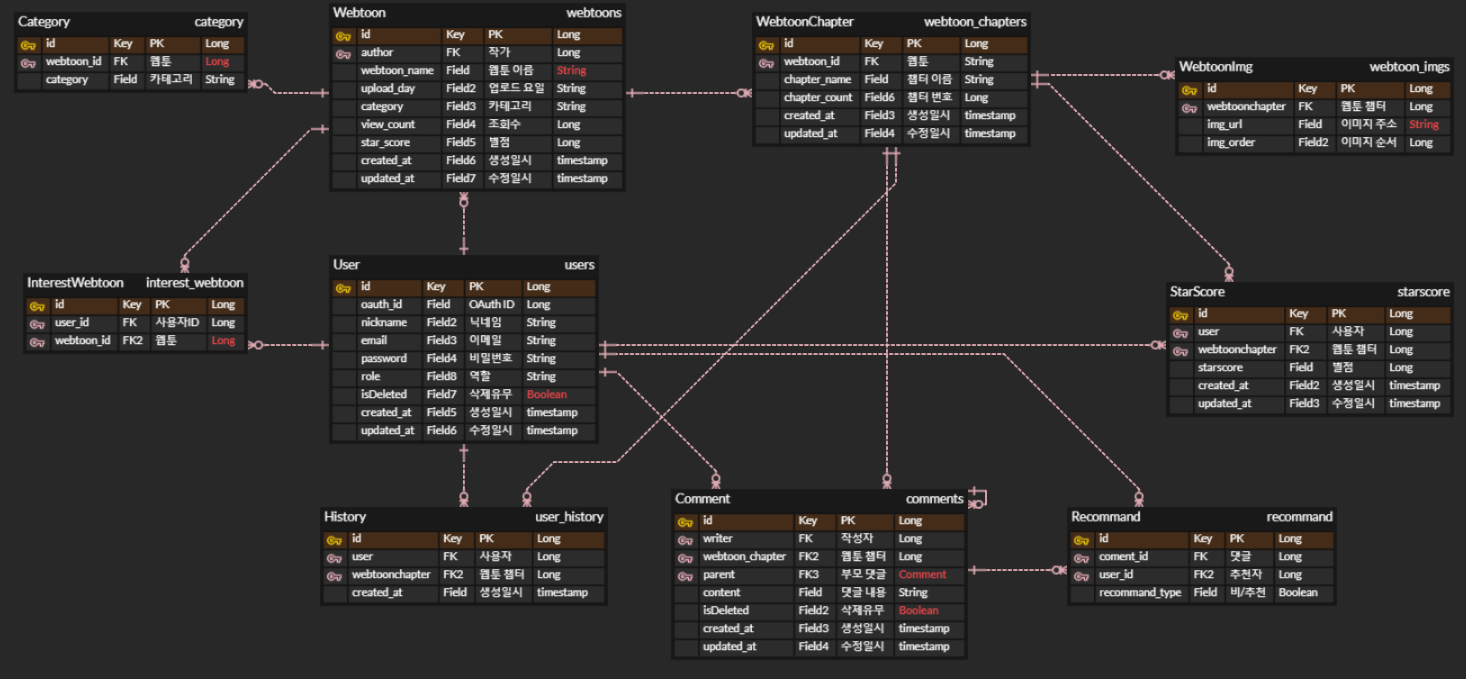
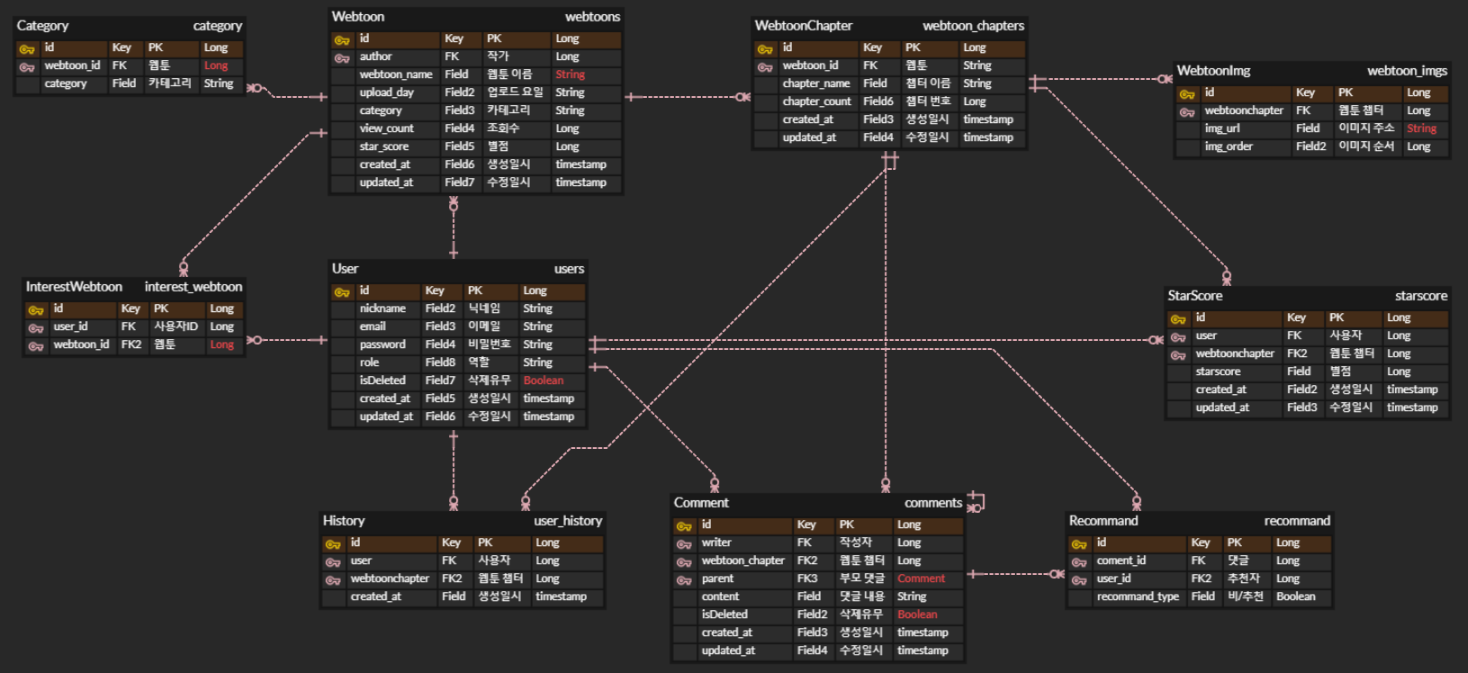
feat : 회원가입, 로그인 구현 docs : README, ERD 수정

diff --git a/src/main/java/com/example/webtoon/User/security/SecurityConfig.java b/src/main/java/com/example/webtoon/User/security/SecurityConfig.java
@@ -1,38 +1,38 @@
 package com.example.webtoon.User.security;
 
-import com.example.webtoon.User.service.PrincipalOauthUserService;
 import lombok.RequiredArgsConstructor;
 import org.springframework.context.annotation.Bean;
 import org.springframework.context.annotation.Configuration;
+import org.springframework.security.authentication.AuthenticationManager;
+import org.springframework.security.config.annotation.method.configuration.EnableGlobalMethodSecurity;
 import org.springframework.security.config.annotation.web.builders.HttpSecurity;
 import org.springframework.security.config.annotation.web.configuration.EnableWebSecurity;
+import org.springframework.security.config.annotation.web.configuration.WebSecurityConfigurerAdapter;
+import org.springframework.security.config.http.SessionCreationPolicy;
 import org.springframework.security.web.SecurityFilterChain;
+import org.springframework.security.web.authentication.UsernamePasswordAuthenticationFilter;
 
 @Configuration
 @RequiredArgsConstructor
+@EnableGlobalMethodSecurity(prePostEnabled = true)
 @EnableWebSecurity
-public class SecurityConfig {
+public class SecurityConfig extends WebSecurityConfigurerAdapter {
+    private final JwtAuthenticationFilter authenticationFilter;
 
-    private final PrincipalOauthUserService principalOauthUserService;
-
-    @Bean
-    public SecurityFilterChain filerChain(HttpSecurity http) throws Exception{
+    @Override
+    public void configure(HttpSecurity http) throws Exception{
         http.csrf().disable()
-            .authorizeRequests()
+            .sessionManagement().sessionCreationPolicy(SessionCreationPolicy.STATELESS)
+            .and()
+            .authorizeHttpRequests()
             .antMatchers("/**/auth/**").permitAll()
             .anyRequest().authenticated()
             .and()
-            .formLogin()
-            .loginPage("/loginForm") //미인증자일경우 해당 uri를 호출
-            .loginProcessingUrl("/login") //login 주소가 호출되면 시큐리티가 낚아 채서(post로 오는것) 대신 로그인 진행 -> 컨트롤러를 안만들어도 된다.
-            .defaultSuccessUrl("/")
-
-            .and()
-            .oauth2Login()
-            .loginPage("/loginForm")
-            .defaultSuccessUrl("/")
-            .userInfoEndpoint()
-            .userService(principalOauthUserService);//구글 로그인이 완료된(구글회원) 뒤의 후처리가 필요함 . Tip.코드x, (엑세스 토큰+사용자 프로필 정보를 받아옴)
-        return http.build();
+            .addFilterBefore(this.authenticationFilter, UsernamePasswordAuthenticationFilter.class);
+    }
+    @Bean
+    @Override
+    public AuthenticationManager authenticationManagerBean() throws Exception{
+        return super.authenticationManagerBean();
     }
 }

diff --git a/src/main/java/com/example/webtoon/User/domain/model/User.java b/src/main/java/com/example/webtoon/User/domain/model/User.java
@@ -5,6 +5,8 @@ import com.example.webtoon.User.type.Authority;
 import java.time.LocalDateTime;
 import javax.persistence.Column;
 import javax.persistence.Entity;
+import javax.persistence.EnumType;
+import javax.persistence.Enumerated;
 import javax.persistence.GeneratedValue;
 import javax.persistence.GenerationType;
 import javax.persistence.Id;
@@ -23,26 +25,21 @@ public class User extends BaseEntity{
     @Id
     @GeneratedValue(strategy = GenerationType.IDENTITY)
     private Long id;
-    private String oauth;
-    private String oauthId;
     @Column(unique = true)
     private String nickname;
     @Column(unique = true)
     private String email;
     private String password;
+    @Enumerated(EnumType.STRING)
     private Authority role;
     private boolean isDeleted;
-
-    private LocalDateTime verifyExpiredAt;
-    private String verificationCode;
-    private boolean verify;
 
     public static User from(SignUpForm form){
         return User.builder()
             .nickname(form.getNickname())
             .email(form.getEmail())
             .password(form.getPassword())
-            .verify(false)
+            .role(Authority.ROLE_USER)
             .build();
     }
 }

diff --git a/src/main/java/com/example/webtoon/exception/ErrorCode.java b/src/main/java/com/example/webtoon/exception/ErrorCode.java
@@ -11,8 +11,9 @@ public enum ErrorCode {
     WRONG_VERIFICATION(HttpStatus.BAD_REQUEST, "잘못된 인증 시도입니다."),
     EXPIRE_CODE(HttpStatus.BAD_REQUEST, "인증 시간이 만료되었습니다."),
     NOT_FOUND_USER(HttpStatus.BAD_REQUEST,"일치하는 회원이 없습니다."),
-    ALREADY_VERIFY(HttpStatus.BAD_REQUEST, "이미 인증이 완료되었습니다.");
-
+    ALREADY_VERIFY(HttpStatus.BAD_REQUEST, "이미 인증이 완료되었습니다."),
+    DELETED_ACCOUNT(HttpStatus.BAD_REQUEST, "삭제 절차중인 계정입니다."),
+    NO_MATCH_ACCOUNT_INFO(HttpStatus.BAD_REQUEST, "입력된 계정정보가 일치하지 않습니다.");
 
     private final HttpStatus httpStatus;
     private final String detail;

diff --git a/src/main/java/com/example/webtoon/WebtoonApplication.java b/src/main/java/com/example/webtoon/WebtoonApplication.java
@@ -1,8 +1,11 @@
 package com.example.webtoon;
 
 import org.springframework.boot.SpringApplication;
+import org.springframework.boot.autoconfigure.EnableAutoConfiguration;
 import org.springframework.boot.autoconfigure.SpringBootApplication;
+import org.springframework.data.jpa.repository.config.EnableJpaAuditing;
 
+@EnableJpaAuditing
 @SpringBootApplication
 public class WebtoonApplication {
 

diff --git a/src/main/java/com/example/webtoon/User/domain/repository/UserRepository.java b/src/main/java/com/example/webtoon/User/domain/repository/UserRepository.java
@@ -8,4 +8,5 @@ import org.springframework.stereotype.Repository;
 @Repository
 public interface UserRepository extends JpaRepository<User, Long> {
     Optional<User> findUserByEmail(String email);
+    boolean existsByEmail(String email);
 }

diff --git a/src/main/java/com/example/webtoon/User/domain/dto/SignUpForm.java b/src/main/java/com/example/webtoon/User/domain/dto/SignUpForm.java
@@ -1,8 +1,10 @@
 package com.example.webtoon.User.domain.dto;
 
 import lombok.Getter;
+import lombok.Setter;
 
 @Getter
+@Setter
 public class SignUpForm {
     private String nickname;
     private String email;

diff --git a/README.md b/README.md
@@ -7,11 +7,9 @@
     - 사용자는 회원가입을 할 수 있다. 일반적으로 모든 사용자는 회원가입시 USER 권한 (일반 권한)을 지닌다.
     - 회원가입시 이메일, 패스워드, 닉네임을 입력받으며, 아이디는 unique 해야한다.
     - 일반 로그인으로 회원가입을 진행할 시 메일을 전송하여 인증 후 회원가입이 진행된다.
-    - 소셜 로그인의 경우 프로세스진행 후 회원가입 진행된다.
 
 - 로그인 기능
     - 사용자는 로그인을 할 수 있다. 로그인시 회원가입때 사용한 아이디와 패스워드가 일치해야한다.
-    - 소셜로그인의 경우 토큰을 받아 로그인을 진행한다.
     - 성공적으로 로그인 한 후에는 token을 송신한다.
 
 - 회원 탈퇴
